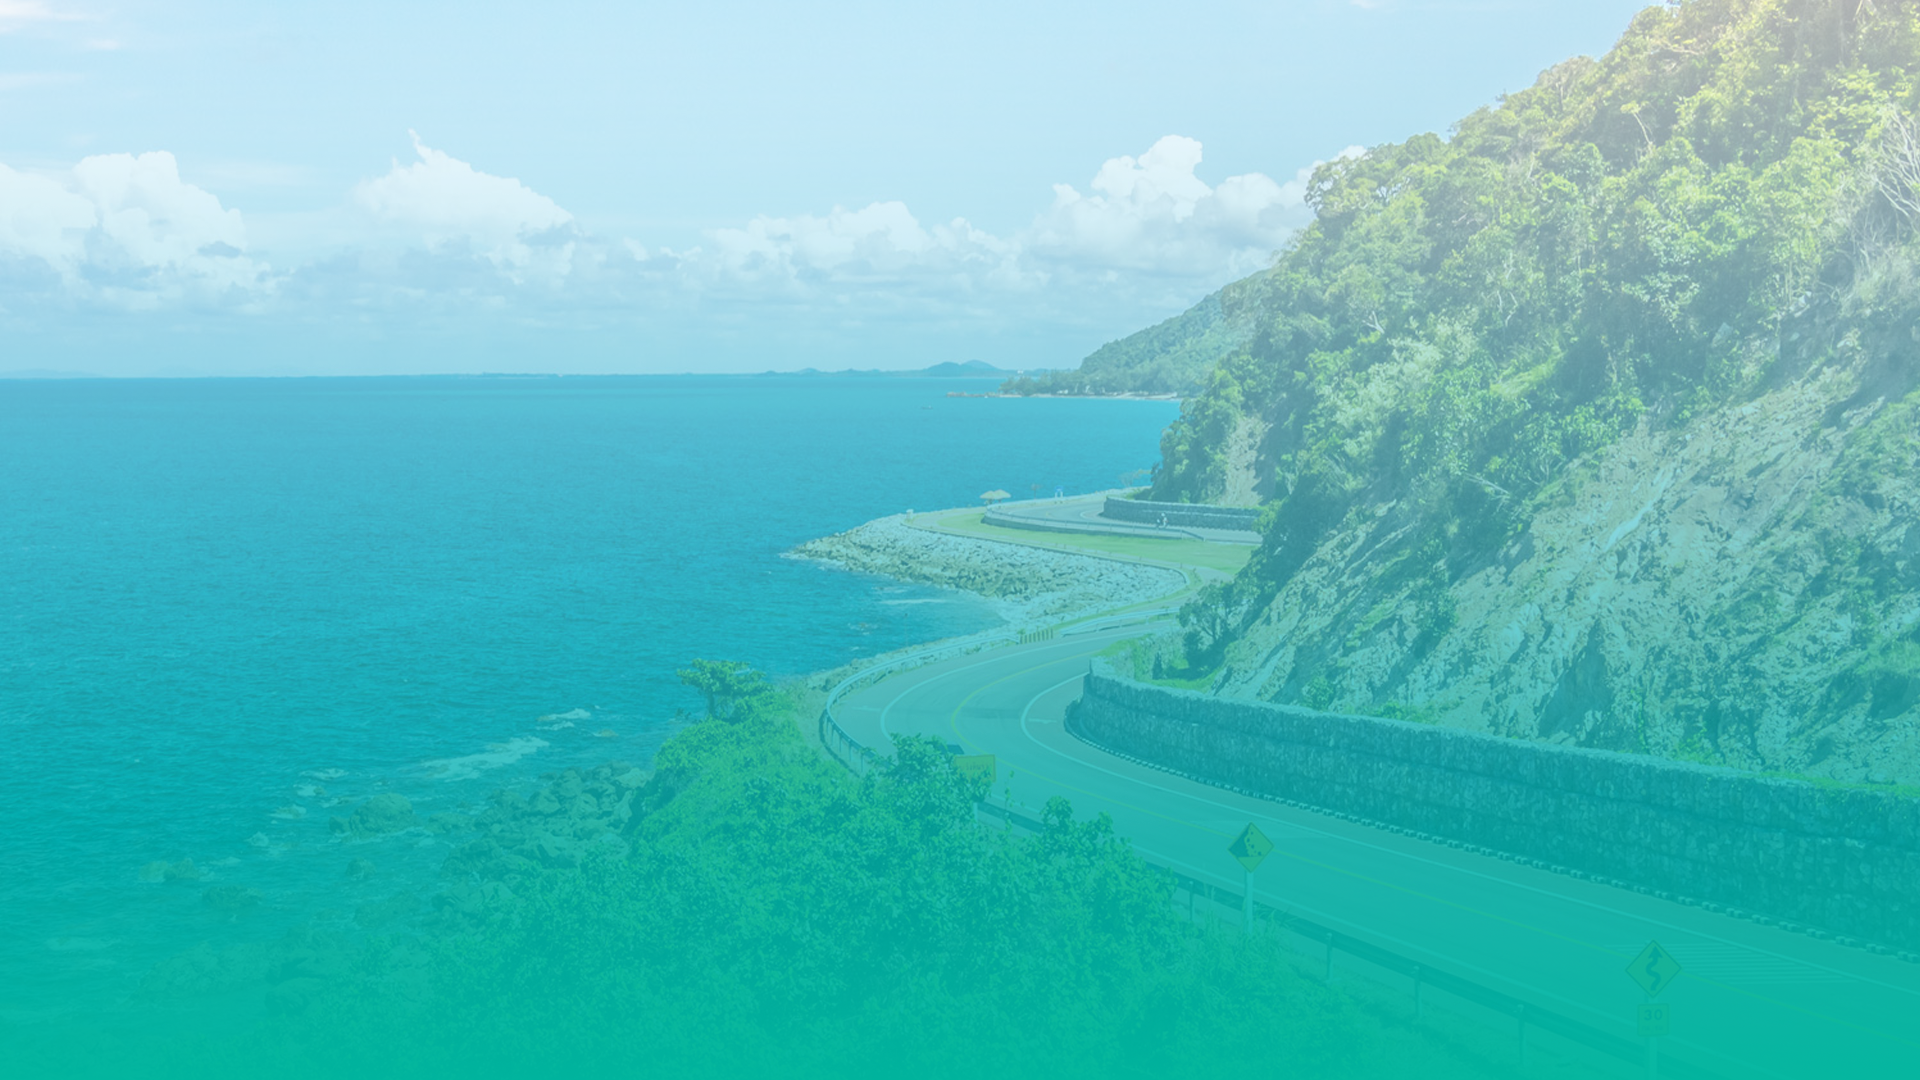
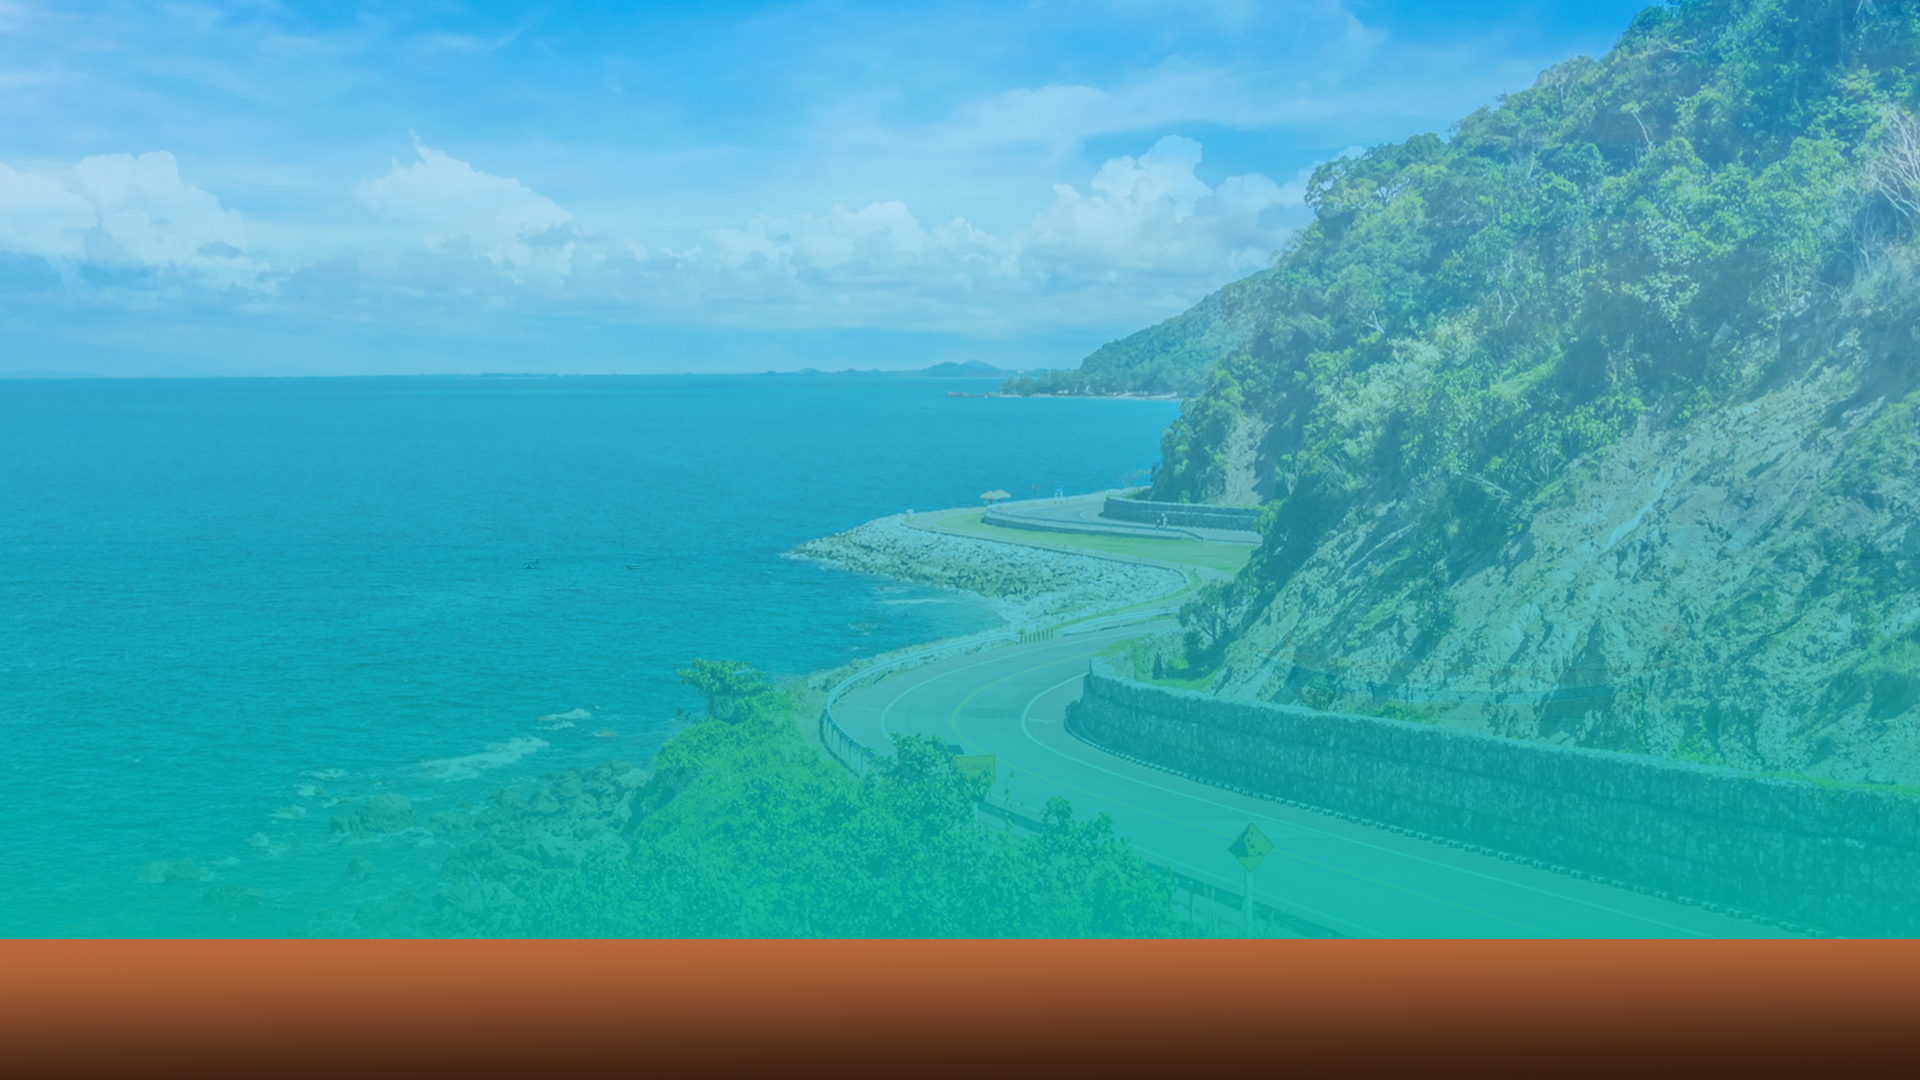
update

diff --git a/resources/views/pages/home/components/section-3.blade.php b/resources/views/pages/home/components/section-3.blade.php
@@ -1,6 +1,6 @@
 <head>
     <style>
-        .bg-page2 {
+        .bg-page3 {
             background-image: url('{{ asset('pages/home/section-3/bg-3.png') }}');
             background-size: cover;
             background-position: center;
@@ -229,7 +229,7 @@
     </style>
 </head>
 
-<main class="d-flex bg-page2">
+<main class="d-flex bg-page3">
     <div class="container d-flex flex-column justify-content-center align-items-start">
 
         <div class="row w-100">
